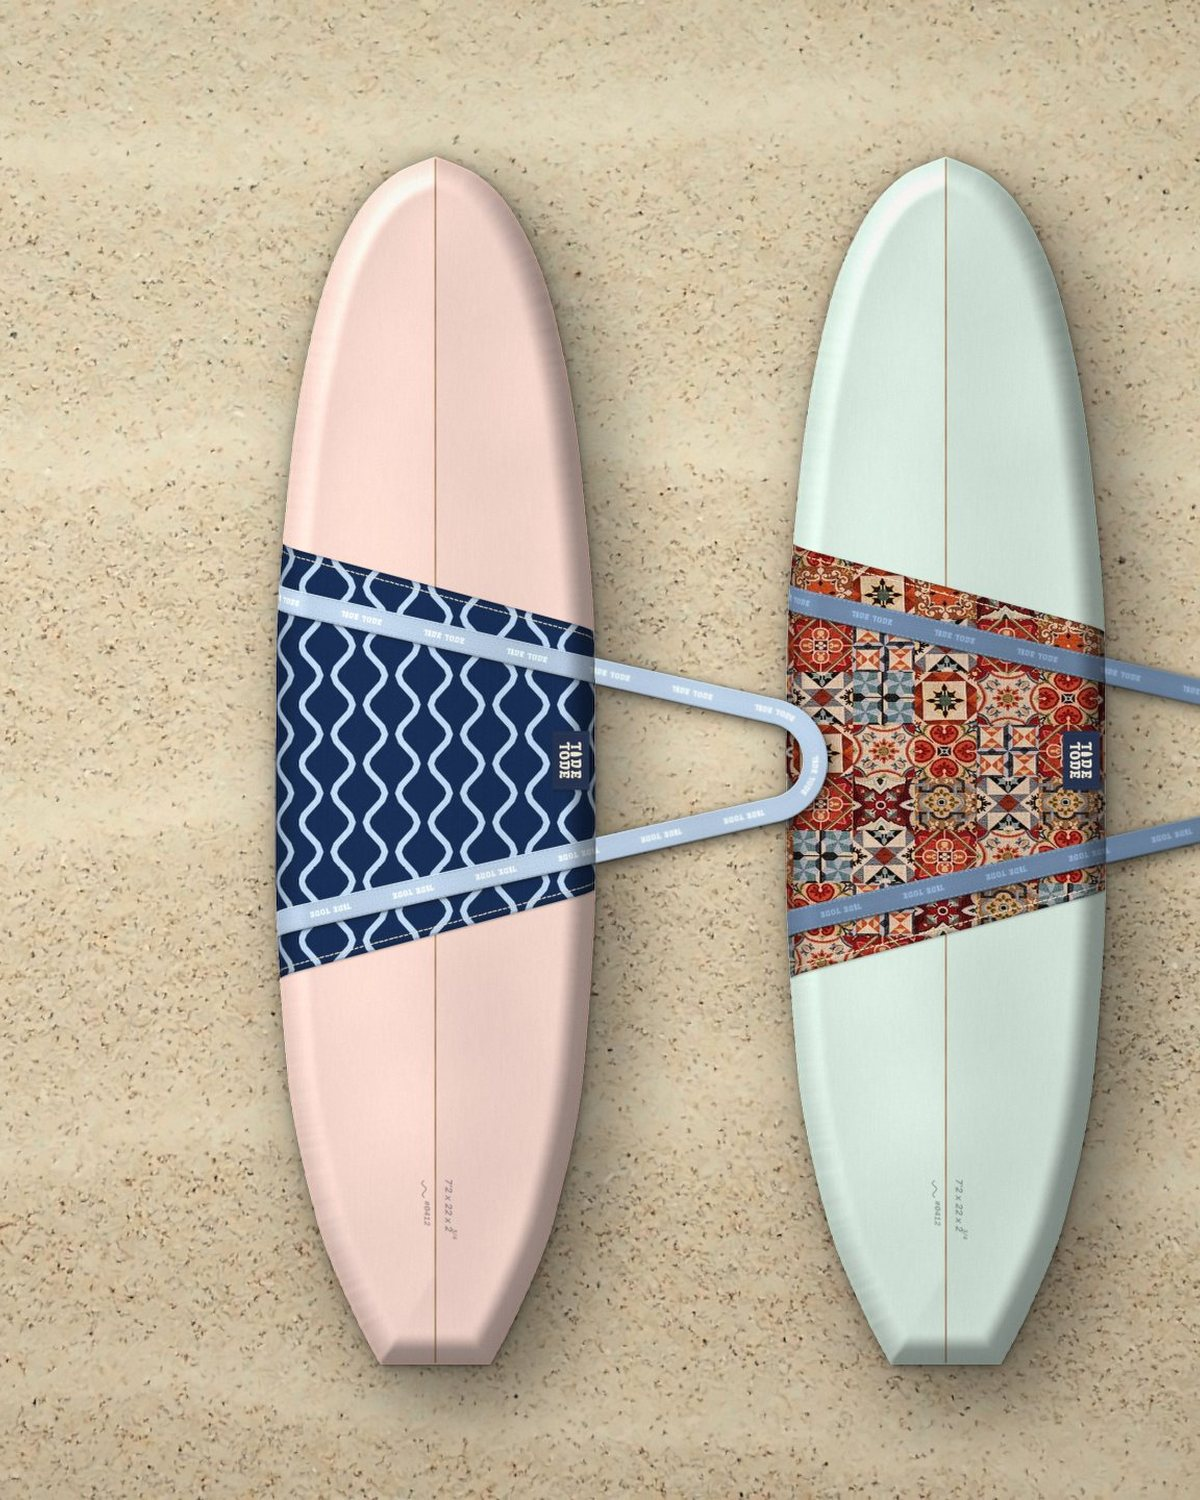
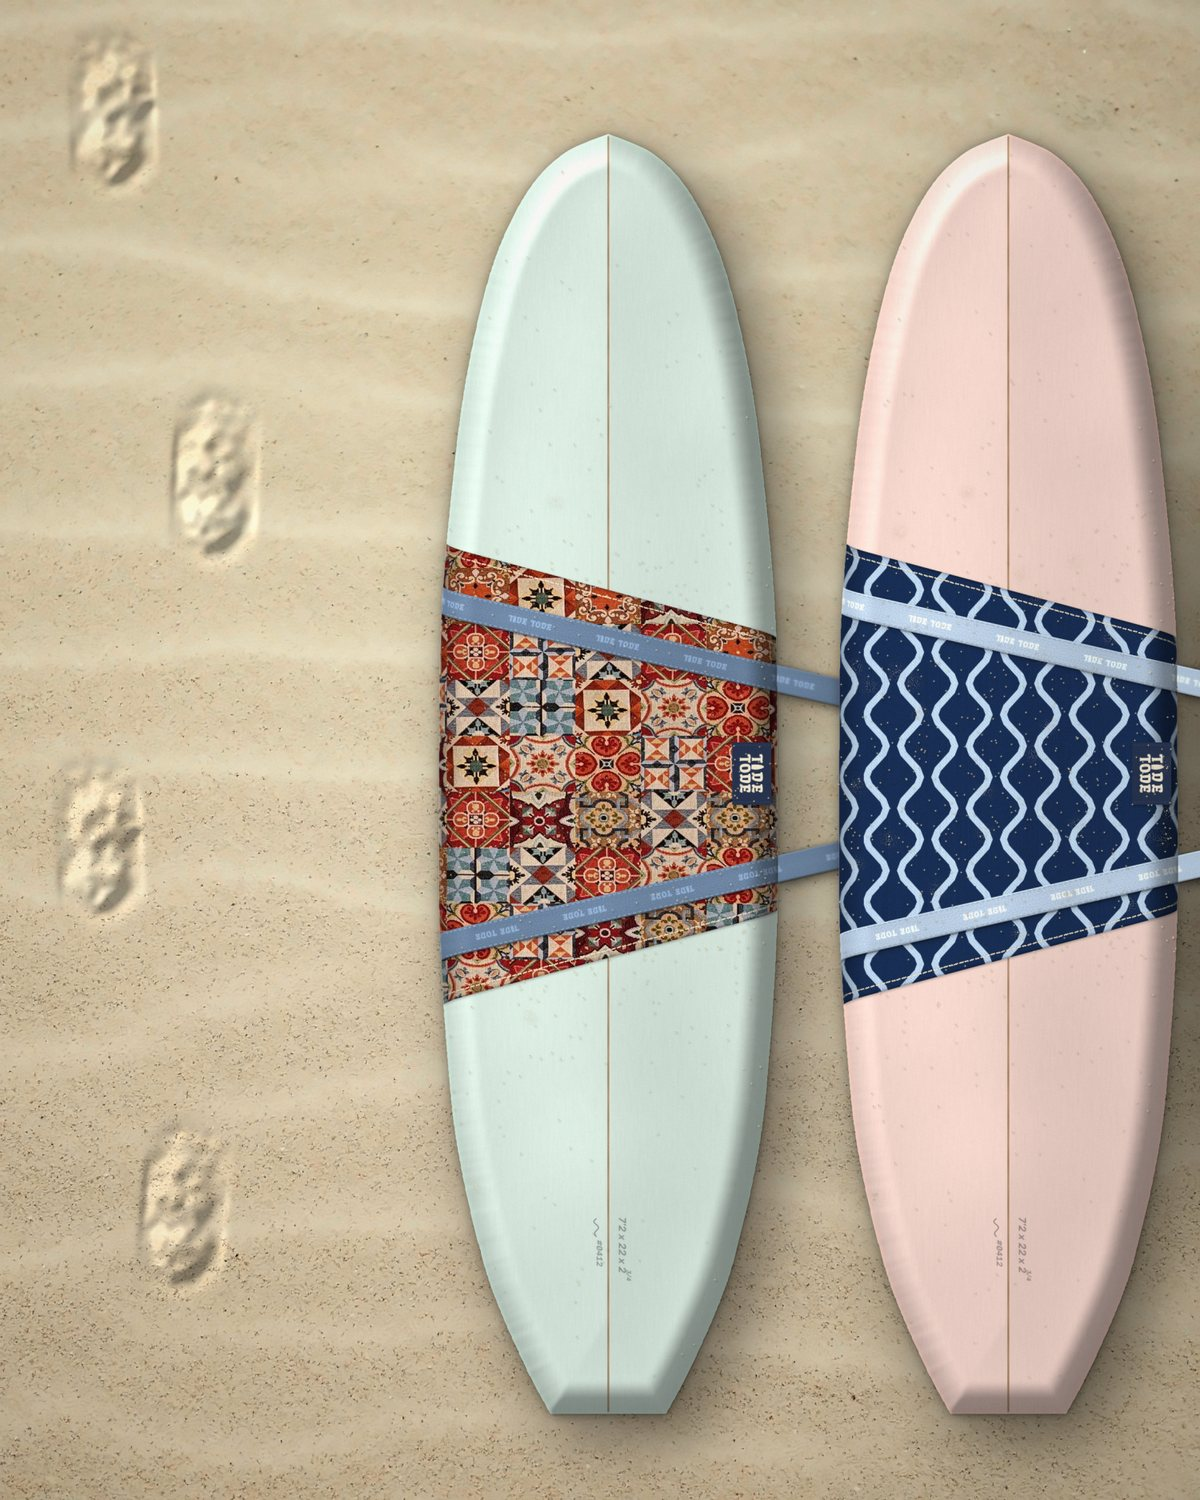
Bewegende balk bovenaan, kortingsknop met zonnetje, kleur kiezen op de tas-pagina, Shop gaat naar alle artikelen, homepage-volgorde, maatwijzer direct, stap 3 met voetstappen (Tide Tode 20)
Claude-Session: https://claude.ai/code/session_015XUCkmjhzv6ohesKJnYCin

diff --git a/theme/assets/tt.css b/theme/assets/tt.css
@@ -2005,3 +2005,46 @@ main .shopify-section:has(> .tt-usp) + .shopify-section > section.tt { margin-to
   .tt-wie__foto { width: 96px; }
 }
 .tt .tt-wie__grid .tt-wie__kaart { padding: 14px 22px 14px 14px !important; }
+
+/* ---------- menu: Shop is een link, het menu klapt open bij hover ---------- */
+.surf-nav__hoofd { color: inherit; text-decoration: none; }
+
+/* ---------- kortingsknop: zonnetje, vrolijk maar netjes ---------- */
+.tt-pop__teaser {
+  padding: 10px 20px 10px 10px !important; gap: 12px !important; background: var(--tt-creme, #F3ECDD) !important; color: var(--tt-deep) !important;
+  box-shadow: 0 0 0 1.5px var(--tt-deep), 0 16px 30px -14px rgba(10, 20, 35, .45) !important; rotate: -2deg !important; text-transform: none !important; letter-spacing: 0 !important;
+}
+.tt-pop__teaser:hover { rotate: 0deg !important; transform: translateY(-3px) scale(1.03); }
+.tt-pop__teaser-zon { display: grid; place-items: center; width: 42px; height: 42px; border-radius: 50%; background: var(--tt-terra, #C0603E); color: var(--tt-creme, #F3ECDD); }
+.tt-pop__teaser-zon svg { width: 26px; height: 26px; animation: tt-zon-draai 14s linear infinite; }
+.tt-pop__teaser-tekst { display: grid; gap: 3px; text-align: left; }
+.tt-pop__teaser-tekst strong { font: 700 12px/1 var(--tt-tekst); letter-spacing: .18em; text-transform: uppercase; }
+.tt-pop__teaser-tekst small { font: 400 11px/1 var(--tt-tekst); opacity: .7; }
+@keyframes tt-zon-draai { to { rotate: 360deg; } }
+@media (prefers-reduced-motion: reduce) { .tt-pop__teaser-zon svg { animation: none; } }
+
+/* ---------- productpagina draagtas: snel een ander ontwerp kiezen ---------- */
+.tt-koop__ontwerpen { margin: 22px 0 6px; }
+.tt-koop__ontwerpen-kop { margin: 0 0 10px !important; font: 700 11px/1 var(--tt-tekst); letter-spacing: .2em; text-transform: uppercase; }
+.tt-koop__ontwerpen ul { list-style: none; margin: 0; padding: 0; display: flex; flex-wrap: wrap; gap: 8px; }
+.tt-koop__ontwerpen a { display: block; width: 56px; aspect-ratio: 4 / 5; border-radius: 4px; overflow: hidden; opacity: .75; transition: opacity .3s, transform .4s cubic-bezier(.22, 1, .36, 1); }
+.tt-koop__ontwerpen a:hover { opacity: 1; transform: translateY(-2px); }
+.tt-koop__ontwerpen a[aria-current="true"] { opacity: 1; box-shadow: 0 0 0 2px var(--tt-deep); }
+.tt-koop__ontwerpen img { width: 100%; height: 100%; object-fit: cover; display: block; }
+
+/* ---------- balk bovenaan: een rustig doorlopende band met kleine icoontjes ---------- */
+.surf-balk { overflow: hidden; background: var(--tt-deep, #22324F); color: var(--tt-creme, #F3ECDD); }
+.surf-balk__link { display: block; color: inherit; text-decoration: none; }
+.surf-balk__baan { display: flex; width: max-content; }
+.surf-balk__spoor { display: flex; align-items: center; flex-shrink: 0; padding: 9px 0; }
+.surf-balk__item { padding: 0 26px; font: 700 10.5px/1 var(--tt-tekst); letter-spacing: .22em; text-transform: uppercase; white-space: nowrap; }
+.surf-balk__ster { display: inline-grid; place-items: center; color: #EDBDB8; }
+.surf-balk__ster svg { width: 15px; height: 15px; display: block; }
+.surf-balk__ster:nth-of-type(3n+2) { color: #BFD3EA; }
+.surf-balk__ster:nth-of-type(3n) { color: #E3CFAE; }
+.surf-balk__baan { animation: tt-balk-loop 38s linear infinite; }
+.surf-balk:hover .surf-balk__baan { animation-play-state: paused; }
+@keyframes tt-balk-loop { to { transform: translateX(-50%); } }
+@media (prefers-reduced-motion: reduce) { .surf-balk__baan { animation: none; } }
+.surf-header summary:has(.surf-nav__hoofd) { gap: 4px; }
+.surf-nav__hoofd { padding: 0 !important; }

diff --git a/theme/assets/tt.js b/theme/assets/tt.js
@@ -187,6 +187,15 @@
     });
   }
 
+  /* ---------- menu: de shop klapt open als je erover gaat; klikken op 'Shop' gaat naar alle producten ---------- */
+  if (matchMedia('(hover: hover)').matches) {
+    document.querySelectorAll('[data-surf-header] nav details').forEach((d) => {
+      const item = d.closest('li') || d;
+      item.addEventListener('mouseenter', () => { d.open = true; });
+      item.addEventListener('mouseleave', () => { d.open = false; });
+    });
+  }
+
   /* ---------- uitgelicht product: grote foto wisselt mee met het ontwerp onder je muis ---------- */
   document.querySelectorAll('[data-tt-uit]').forEach((sec) => {
     const groot = sec.querySelector('.tt-uit__foto img');

diff --git a/tools/tas/stap3_studio.py b/tools/tas/stap3_studio.py
@@ -1,0 +1,112 @@
+"""Stap 3 van 'Zo werkt hij' (op naar de spot): boards met de draagtas op het zand, een spoor van voetstappen
+ernaast en wat zand op de tas. Zelfde studiostijl als de productfoto's (studio2 / hero_studio).
+Schrijft theme/assets/tt-foto-stap-3(.jpg/-800.jpg)."""
+import pathlib, sys
+import cv2
+import numpy as np
+from PIL import Image
+
+HIER = pathlib.Path(__file__).parent
+sys.path.insert(0, str(HIER)); sys.path.insert(0, str(HIER.parent / 'producten'))
+import studio2 as S2  # noqa: E402
+import stijl as ST  # noqa: E402
+import hero_studio as HS  # noqa: E402
+
+THEMA = HIER.parent.parent / 'theme' / 'assets'
+B, H = 1500, 1875
+LICHT = np.array([-0.62, -0.78], np.float32)            # naar het raam (linksboven)
+
+
+def voet(links, lengte=200):
+    """Hoogtekaart van één voetafdruk (0..1, 1 = diepst), hiel onder, tenen boven."""
+    w, h = int(lengte * 0.55), int(lengte * 1.25)
+    m = np.zeros((h, w), np.float32)
+    cx = w / 2
+    cv2.ellipse(m, (int(cx), int(h * 0.70)), (int(lengte * 0.17), int(lengte * 0.20)), 0, 0, 360, 1, -1, cv2.LINE_AA)   # hiel
+    cv2.ellipse(m, (int(cx + (6 if links else -6)), int(h * 0.42)), (int(lengte * 0.20), int(lengte * 0.26)), 0, 0, 360, 0.85, -1, cv2.LINE_AA)  # bal
+    tenen = [(-0.13, 0.13, 0.07), (-0.03, 0.10, 0.055), (0.05, 0.10, 0.05), (0.12, 0.12, 0.045), (0.18, 0.15, 0.04)]
+    for dx, dy, r in tenen:
+        x = cx + (dx if links else -dx) * lengte
+        cv2.circle(m, (int(x), int(h * dy + lengte * 0.06)), int(r * lengte), 0.55, -1, cv2.LINE_AA)
+    m = cv2.GaussianBlur(m, (0, 0), lengte * 0.045)
+    # los droog zand: de rand is rafelig en de afdruk is niet overal even diep
+    rng = np.random.default_rng(int(lengte * 7 + links))
+    ruis = cv2.GaussianBlur(rng.normal(0, 1, m.shape).astype(np.float32), (0, 0), lengte * 0.03)
+    m = np.clip(m * (0.75 + 0.35 * ruis / (np.abs(ruis).max() + 1e-6)), 0, 1)
+    ys, xs = np.mgrid[0:h, 0:w].astype(np.float32)
+    dx = cv2.GaussianBlur(rng.normal(0, 1, m.shape).astype(np.float32), (0, 0), 6) * 40
+    dy = cv2.GaussianBlur(rng.normal(0, 1, m.shape).astype(np.float32), (0, 0), 6) * 40
+    m = cv2.remap(m, xs + dx, ys + dy, cv2.INTER_LINEAR)
+    # opgeworpen zand rond de rand
+    rand = cv2.GaussianBlur(cv2.dilate((m > 0.2).astype(np.float32), np.ones((9, 9), np.uint8)), (0, 0), lengte * 0.05)
+    return m, rand
+
+
+def stempel(veld, rand_veld, m, r, cx, cy, hoek, schaal=1.0):
+    h, w = m.shape
+    M = cv2.getRotationMatrix2D((w / 2, h / 2), hoek, schaal)
+    M[0, 2] += cx - w / 2; M[1, 2] += cy - h / 2
+    veld[:] = np.maximum(veld, cv2.warpAffine(m, M, (B, H)))
+    rand_veld[:] = np.maximum(rand_veld, cv2.warpAffine(r, M, (B, H)))
+
+
+def voetstappen(doek):
+    diep = np.zeros((H, B), np.float32); rand = np.zeros((H, B), np.float32)
+    rng = np.random.default_rng(3)
+    y = H + 120
+    links = True
+    while y > -200:
+        x = 190 + (-46 if links else 46) + rng.normal(0, 10)
+        m, r = voet(links, 190)
+        stempel(diep, rand, m, r, x, y, (4 if links else -4) + rng.normal(0, 3))
+        y -= 470 + rng.normal(0, 25)
+        links = not links
+    hoogte = 0.45 * rand * (1 - diep) - 0.7 * diep
+    hoogte = cv2.GaussianBlur(hoogte, (0, 0), 3.5)
+    gy, gx = np.gradient(hoogte)
+    licht = (gx * LICHT[0] + gy * LICHT[1]) * 15                        # helling naar het raam is licht
+    tint = 1 + np.clip(licht, -0.32, 0.22) - 0.05 * diep                 # binnenin net wat donkerder (vochtiger zand)
+    # binnenin de afdruk: korrel van omgewoeld zand
+    korrel = cv2.GaussianBlur(rng.normal(0, 1, (H, B)).astype(np.float32), (0, 0), 1.2) * 0.05 * diep
+    return np.clip(doek * (tint + korrel)[..., None], 0, 1)
+
+
+def zand_op(doek, masker, dichtheid, zaad=8):
+    """Losse zandkorrels en kleine plukjes op de tas en het board, met een klein schaduwtje (licht linksboven)."""
+    rng = np.random.default_rng(zaad)
+    kans = rng.random((H, B)).astype(np.float32) < dichtheid * masker
+    plukjes = cv2.GaussianBlur((rng.random((H, B)) < 0.00012 * masker).astype(np.float32), (0, 0), 6)
+    plukjes = np.clip(plukjes * 60, 0, 1) * (rng.random((H, B)) < 0.35)
+    k = np.clip(cv2.GaussianBlur(kans.astype(np.float32), (0, 0), 0.7) * 2.4 + plukjes, 0, 1)
+    sch = cv2.GaussianBlur(cv2.warpAffine(k, np.float32([[1, 0, 1.5], [0, 1, 2]]), (B, H)), (0, 0), 1.0)
+    kleur = np.array([0.86, 0.78, 0.62], np.float32) * (0.85 + 0.3 * rng.random((H, B, 1)).astype(np.float32))
+    doek = doek * (1 - 0.35 * sch[..., None] * (1 - k[..., None]))
+    return doek * (1 - k[..., None]) + kleur * k[..., None]
+
+
+if __name__ == '__main__':
+    ST.B, ST.H = B, H
+    _l = ST._licht; ST._licht = lambda h=H, b=B: _l(h, b)
+    doek = voetstappen(S2.zand_detail(1.0, zaad=9))
+    zandmask = np.zeros((H, B), np.float32)
+    k = 1.0
+    for handle, cx in (('draagtas-tegel', 760), ('draagtas-golfjes', 1260)):
+        rb, rl, bx = HS.staand_los(handle, 1600)
+        h, w = rb.shape[:2]
+        midden = (cx - bx + w / 2, H / 2 + 30)
+        a_b = S2.alfa_op_doek(rb, 1.0, midden, doek)
+        doek = S2.slagschaduw(doek, a_b, [(3 * k, 3 * k, 0.5), (14 * k, 12 * k, 0.32), (40 * k, 34 * k, 0.26)])
+        doek = ST.leg(doek, rb, breedte=w, midden=midden, hoogte=20 * k, zachtheid=0.9, contact=0.7)
+        a_l = S2.alfa_op_doek(rl, 1.0, midden, doek)
+        doek = S2.slagschaduw(doek, a_l, [(2 * k, 1.6 * k, 0.6), (7 * k, 6 * k, 0.3)])
+        doek = ST.leg(doek, rl, breedte=w, midden=midden, hoogte=3 * k, contact=0.6)
+        # zand vooral op de tas (het midden van het board) en wat op de rest
+        yy = np.arange(H, dtype=np.float32)[:, None]
+        rond_tas = np.exp(-((yy - midden[1]) / 330) ** 2)
+        zandmask = np.maximum(zandmask, a_b * (0.06 + 0.94 * rond_tas ** 2))
+    doek = zand_op(doek, zandmask, 0.004)
+    img = ST.afwerking(doek, korrel=0.005, zaad=12)
+    u8 = Image.fromarray((np.clip(img, 0, 1) * 255 + 0.5).astype(np.uint8))
+    u8.resize((1200, 1500), Image.LANCZOS).save(THEMA / 'tt-foto-stap-3.jpg', quality=84, optimize=True, progressive=True)
+    u8.resize((800, 1000), Image.LANCZOS).save(THEMA / 'tt-foto-stap-3-800.jpg', quality=82, optimize=True, progressive=True)
+    print('klaar')
